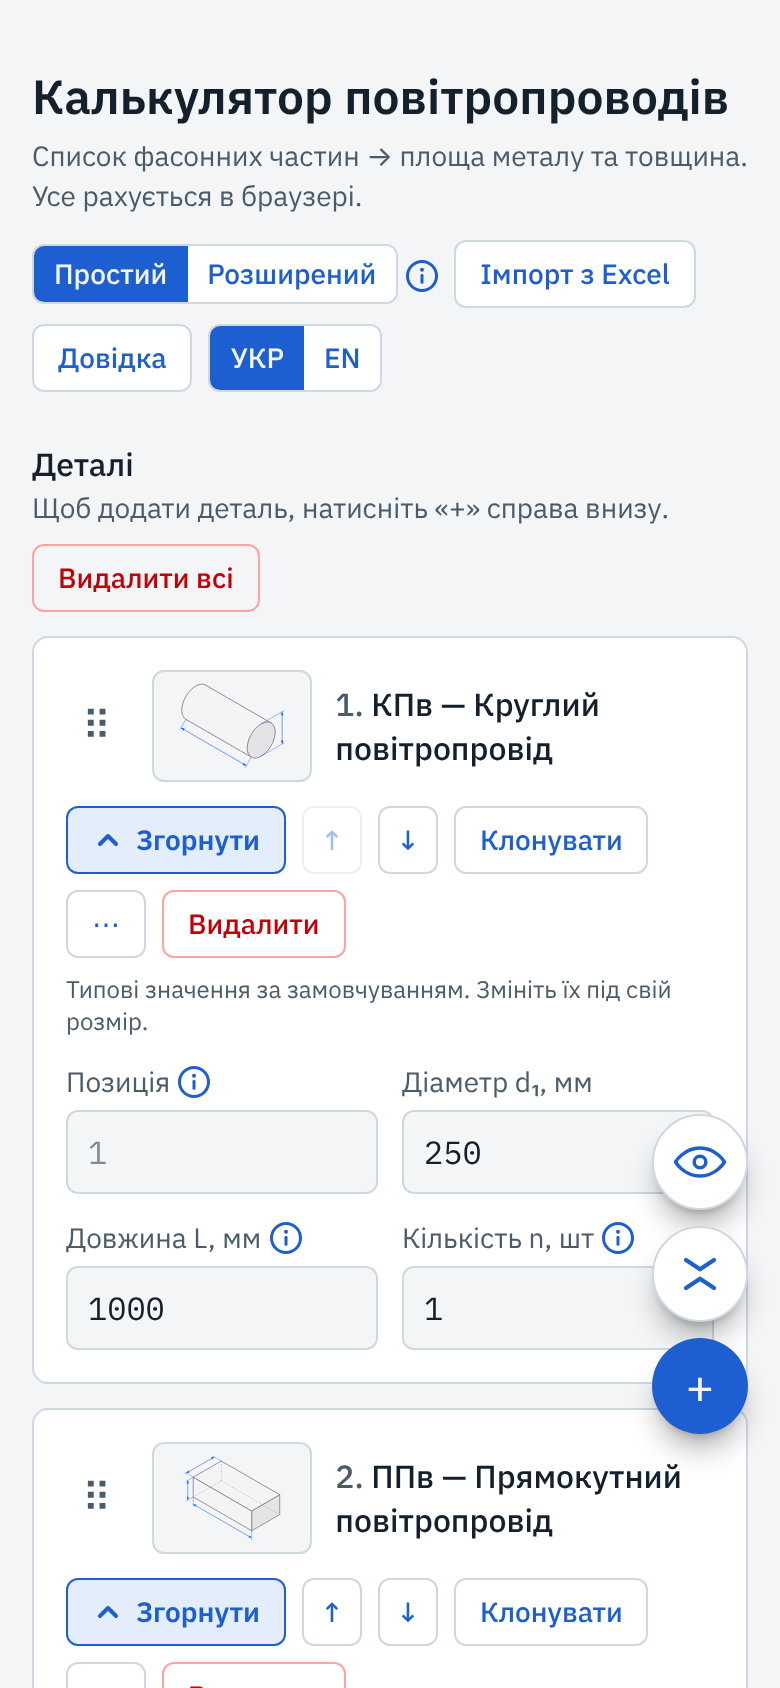
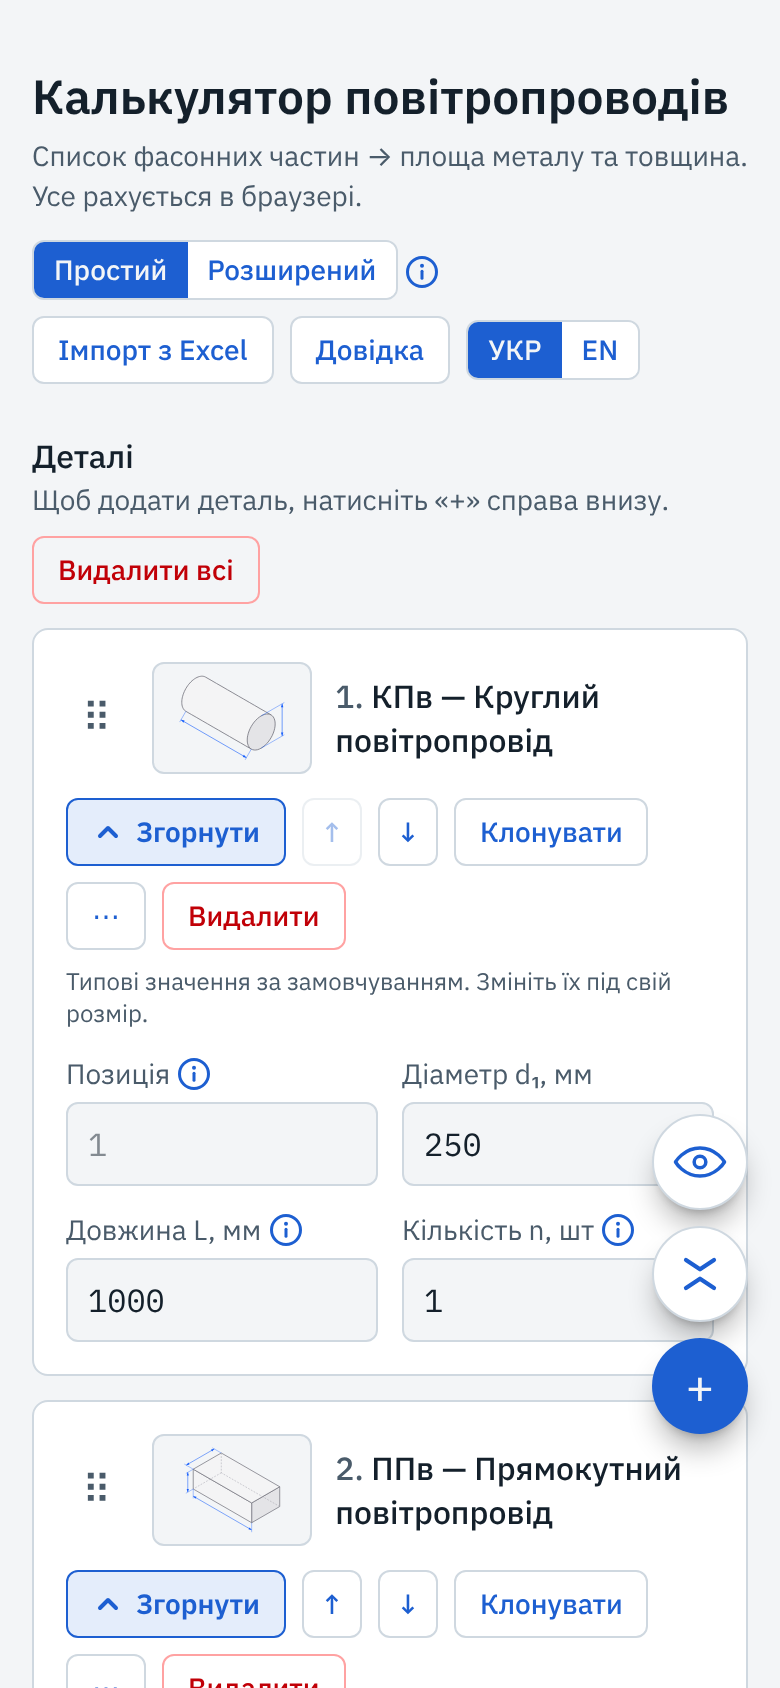
Header toolbar under the title, «Видалити всі» beside the heading (ADR 0083)
Claude-Session: https://claude.ai/code/session_0157kQd74hrHXx2Dq8GtVi5e

diff --git a/src/components/Calculator.tsx b/src/components/Calculator.tsx
@@ -42,18 +42,21 @@ function CalculatorPage() {
     <div className="mx-auto w-full max-w-[120rem] flex-1 gap-6 px-4 py-8 xl:px-8 lg:grid lg:grid-cols-[8.5rem_minmax(0,1fr)]">
       <KindRail count={countOf} onAdd={addRow} view={view} hasRows={rows.length > 0} twoColumns={twoColumns} onColumns={setTwoColumns} />
       <main className="min-w-0 space-y-6">
-        <header className="flex flex-col gap-3 sm:flex-row sm:items-start sm:justify-between sm:gap-4">
+        {/* title, then one toolbar left under it (ADR 0083): mode on its own row on a phone, the other buttons in a second row */}
+        <header className="space-y-3">
           <div>
             <h1 className="text-2xl font-semibold">{dict.appTitle}</h1>
             <p className={`mt-1 text-sm ${mutedClass}`}>{dict.appSubtitle}</p>
           </div>
-          <div className="flex shrink-0 flex-wrap gap-2 sm:justify-end">
+          <div className="flex flex-col items-start gap-2 sm:flex-row sm:flex-wrap sm:items-center sm:gap-3">
             <ModeSwitch />
-            <ImportButton onImport={importRows} />
-            <span className="contents lg:hidden">
-              <HelpButton />
-              <LangSwitch />
-            </span>
+            <div className="flex flex-wrap items-center gap-2">
+              <ImportButton onImport={importRows} />
+              <span className="contents lg:hidden">
+                <HelpButton />
+                <LangSwitch />
+              </span>
+            </div>
           </div>
         </header>
 

diff --git a/src/components/calculator/FittingList.tsx b/src/components/calculator/FittingList.tsx
@@ -232,7 +232,7 @@ export function FittingList({ rows: listRows, view, outcome, onKindChange, onVal
         setDrag(null);
       }}
     >
-      <div className="flex flex-wrap items-center justify-between gap-2">
+      <div className="flex flex-wrap items-center gap-x-6 gap-y-2">
         <div>
           <h2 id="items-title" className="font-medium">{dict.itemsTitle}</h2>
           <p className="text-sm text-muted">

diff --git a/CLAUDE.md b/CLAUDE.md
@@ -8,7 +8,7 @@ Stack: Next.js (App Router), TypeScript strict, Vitest, Zod 4. Core logic is pla
 Engineering decisions: one ADR per file in `docs/adr/`. `docs/decisions.md` is the short index: the ADR list, known deviations from the Excel, the `TODO(confirm)` register and deferred work. The engineer's answers and the Excel template bugs: `docs/engineer-answers.md`.
 
 ## Status
-Stage 0 (fittings geometry, pressure drop) and stage 1 core (thickness table, elbow waste factor, air properties, Zod validation, `assembleSection`) are done and merged. Sheet list by thickness (metal m2 per thickness, `sheetList`) is done. First UI is done (split into focused components + `useCalculator` hook): one client-side calculator page (page width capped at 1920 px, an optional two-column card layout from 1280 px, ADR 0047; Ukrainian by default, English via the УКР / EN switch (bottom of the side rail on desktop, header on the phone, ADR 0048), remembered in `localStorage`, see ADR 0039), no backend. Deployed on Vercel (owner's account, Hobby plan, auto-deploy from `main`, previews per PR); Vercel Web Analytics is wired in (`<Analytics />` in `src/app/layout.tsx`, package `@vercel/analytics`, the owner enables it in the Vercel dashboard). Elbow radius is now suggested from the size in the form (round centre-line R = 1.0 D, rect inner R = 0.5 W, `config.elbowRadius`, `TODO(confirm)`; the field follows the size until the user types over it). During the beta the page opens with one example row of every fitting kind (`form/sample-rows.ts`) and the full sketches are closed by default (only the thumbnail shows, ADR 0081). Each fitting card starts with a thumbnail of its isometric sketch; a click opens the full sketch inside the card and a second click closes it (ADR 0040; it replaced the "Показати схему" button); the sketch is an inline SVG (line style, labels beside the drawing, a legend names the letters, see ADR 0033; the older side view and cross-section stay in the code, unused by the card). Inputs in a row stay aligned when a label wraps (each field is a column packed to the bottom, `justify-end`, so the inputs stay level and the shorter labels sit right above their inputs). Fittings are added from an always-visible side panel (desktop: sticky rail of kind groups with a list beside it; phone: quick buttons and a bottom sheet with search, see ADR 0031); a card shows its kind as a title and changes it through a «⋯» menu. Input warnings (aspect ratio, size over 2000 mm, large elbow radius) are done. Tees and crosses (metal area, 8 kinds, see ADR 0021) are done. Standalone branch-in collars (врізки Квр, Пвр: `roundTap`, `rectTap`, metal area only, see ADR 0026) are done. The engineer's 2026-10-19 answers are in: ДБН thickness table by default (engineer's table selectable), user-set seam allowance for non-elbows, reducer friction by the mean diameter, order margin (default 20 %), sheet size and sheet count (settings block in the UI). The UI shows areas only (owner, 2026-10-19): pressure losses, centerline length, air parameters, airflow and zeta are hidden, the core and its tests are unchanged. The README is the portfolio page (English, with a Ukrainian copy `README.uk.md` and language links at the top; keep both in sync): what the tool does, live link, screenshots in `docs/images/` (taken from a production build at 1440 x 900 and a 390 px phone), supported fittings, how the numbers are verified, stack and commands; refresh the screenshots when the UI changes visibly (last retaken 2026-11-23, desktop and phone in the simple mode). The area formulas were cross-checked against ВСН 353-86, ДСТУ Б Д.2.4-15:2014 and online calculators (2026-10-27); the rect-to-round transition is now the exact layout (ADR 0035), the other kinds agree or differ only by documented choices (slant instead of the axial length, smooth instead of segmented round elbows). Insulation area is in as a beta (ADR 0037): one material per row from the Excel's six, outer surface = metal geometry with each size + 2t, elbows with the cutting coefficient, caps the end plate only; per-row column, a list per material and a total. Price is in (ADR 0038): the user types UAH per m² for each thickness in the metal list and each material in the insulation list (empty = no price, nothing preset); metal is priced on the area to order (margin included), insulation on its computed area; cost per line and totals (metal, insulation, all), unpriced lines are counted, not free. The engineer's 2026-11-16 answers, part one (ADR 0041): his thickness table keys rect sizes by the equivalent diameter 2AB/(A+B) (`ThicknessTable.rectKey`), and every fitting with an allowance takes a number of allowances 2 / 1 / 0 (`allowanceCount`, absent = 2, a select in the card). Part two (ADR 0042): reducers, tees and crosses show two areas, the actual area and the metal consumption (`calc/consumption.ts`: reducers at least `config.consumption.minReducerLengthMm` = 300 mm long, tees and crosses without the cut-out); the order, sheet list, sheet count and metal price use the consumption, insulation the actual geometry. The tap ring (ADR 0043): taps add a flat ring `config.tap.ringWidthMm` = 50 mm wide around the stub (round annulus, rect frame) to the actual metal area and the consumption (`calc/tap-ring.ts` `tapRingArea`, added in `metalArea`, ADR 0044); `sheetArea` and insulation stay the stub only. Straights split into shop pieces (ADR 0045): a per-card max piece length (round 3000, rect 1250 mm, `config.straightPiece`, `TODO(confirm)`; 0 = off), the results show «ланки: 7 × 3 м + 1 × 1,5 м», the area is unchanged (`form/pieces.ts` `splitLength`). In-app help (ADR 0046): an «i» button after the less obvious input labels and column headers opens a short explanation on tap (no hover), and a «Довідка» button in the header opens a six-step how-to dialog (the sixth on the import, ADR 0063); texts in `dict.help`. Manual row order and positions (ADR 0049): cards move by a «⠿» drag handle (mouse on desktop, finger on the phone; live preview, cards glide on a reorder only, ADR 0068) and ↑ / ↓ buttons (everywhere); the rows array is the order of the list and the results; a repeated kind forms a section only where its rows stand together (each section takes the full width, ADR 0071, framed in the accent colour at 35 %, ADR 0072; folded tiles read down the columns, ADR 0065, in rows of equal height, ADR 0066; folded single fittings sit in a dashed «Окремі деталі» frame, ADR 0070); each card has a free-text «Позиція» field (empty = list number, e.g. П1, В2), shown on the card and in the results (`form/order.ts`). Results rows show the sizes under the name and scroll to the card on click, which is then highlighted for 1.5 s (ADRs 0050, 0054); the results table shows the same sections as the list, with section sums; a click on a section title scrolls to the section and highlights it the same way (ADRs 0055, 0057). The results table header sticks to the top of the screen from `lg` (ADR 0075); between `sm` and `lg` the table box is capped at 80vh and the header sticks inside it (ADR 0078). A folded tile shows its four buttons in two rows (ADR 0077); in the two-column layout an open card's buttons stand in two rows, fold and move on top, clone, kind and remove below (ADR 0080). On a phone (below 640 px) the results, sheet list and insulation list render as blocks of «label: value» lines instead of tables (ADR 0058), and an open card sketch sits right under the thumbnail (ADR 0059). The card's «Згорнути» is the first card button and tinted (ADR 0060). A clone opens in its original's view, folded or open (ADR 0056). Section titles start with their positions, «1–2.» or «П1, П2.» (ADR 0051). A whole section moves by its own «⠿» handle and ↑ / ↓ (ADR 0052, `moveBlock`). Seam allowance and order margin are also editable in «Разом», thickness table and sheet size in «Відомість металу за товщиною» (same state, shared field components in `SettingsPanel.tsx`, ADR 0053). Import of a spec table (ADR 0061): «Імпорт з Excel» in the header reads .xlsx / .csv in the browser (no dependency, own ZIP + XML reader), guesses the column mapping (editable, remembered per header text), recognises kinds from codes and names (a hood «Зонт» is a cap, ADR 0079), shows every row (recognised / not recognised with a manual kind choice / service rows) and adds the rows in file order with positions «система-№» from the file; its inputs carry «i» help (`dict.import.info`, ADR 0063); a size in the name that differs from its column is flagged in the preview and as a warning on the card until the field is edited (`sizeConflicts`, `FormRow.sizeConflicts`, ADR 0073). A row the file gives no size for is added with «⚠ розмірів у файлі немає» on the card and the tile (`FormRow.noSizes`, ADR 0074). «Видалити всі» at the «Деталі» heading empties the list after an in-place confirmation (ADR 0062). Simple / advanced interface mode (ADR 0082): a «Простий / Розширений» switch in the header, remembered in `localStorage`, simple by default; the simple mode hides the settings block, allowances, insulation, max piece length and prices (elements with the class `adv-only`, hidden by `<html data-mode="simple">`), hidden values still count. Next, in the engineer's order: aerodynamics as a separate mode; XLSX export waits for the engineer's reference files.
+Stage 0 (fittings geometry, pressure drop) and stage 1 core (thickness table, elbow waste factor, air properties, Zod validation, `assembleSection`) are done and merged. Sheet list by thickness (metal m2 per thickness, `sheetList`) is done. First UI is done (split into focused components + `useCalculator` hook): one client-side calculator page (page width capped at 1920 px, an optional two-column card layout from 1280 px, ADR 0047; Ukrainian by default, English via the УКР / EN switch (bottom of the side rail on desktop, header on the phone, ADR 0048), remembered in `localStorage`, see ADR 0039), no backend. Deployed on Vercel (owner's account, Hobby plan, auto-deploy from `main`, previews per PR); Vercel Web Analytics is wired in (`<Analytics />` in `src/app/layout.tsx`, package `@vercel/analytics`, the owner enables it in the Vercel dashboard). Elbow radius is now suggested from the size in the form (round centre-line R = 1.0 D, rect inner R = 0.5 W, `config.elbowRadius`, `TODO(confirm)`; the field follows the size until the user types over it). During the beta the page opens with one example row of every fitting kind (`form/sample-rows.ts`) and the full sketches are closed by default (only the thumbnail shows, ADR 0081). Each fitting card starts with a thumbnail of its isometric sketch; a click opens the full sketch inside the card and a second click closes it (ADR 0040; it replaced the "Показати схему" button); the sketch is an inline SVG (line style, labels beside the drawing, a legend names the letters, see ADR 0033; the older side view and cross-section stay in the code, unused by the card). Inputs in a row stay aligned when a label wraps (each field is a column packed to the bottom, `justify-end`, so the inputs stay level and the shorter labels sit right above their inputs). Fittings are added from an always-visible side panel (desktop: sticky rail of kind groups with a list beside it; phone: quick buttons and a bottom sheet with search, see ADR 0031); a card shows its kind as a title and changes it through a «⋯» menu. Input warnings (aspect ratio, size over 2000 mm, large elbow radius) are done. Tees and crosses (metal area, 8 kinds, see ADR 0021) are done. Standalone branch-in collars (врізки Квр, Пвр: `roundTap`, `rectTap`, metal area only, see ADR 0026) are done. The engineer's 2026-10-19 answers are in: ДБН thickness table by default (engineer's table selectable), user-set seam allowance for non-elbows, reducer friction by the mean diameter, order margin (default 20 %), sheet size and sheet count (settings block in the UI). The UI shows areas only (owner, 2026-10-19): pressure losses, centerline length, air parameters, airflow and zeta are hidden, the core and its tests are unchanged. The README is the portfolio page (English, with a Ukrainian copy `README.uk.md` and language links at the top; keep both in sync): what the tool does, live link, screenshots in `docs/images/` (taken from a production build at 1440 x 900 and a 390 px phone), supported fittings, how the numbers are verified, stack and commands; refresh the screenshots when the UI changes visibly (last retaken 2026-11-23, desktop and phone in the simple mode). The area formulas were cross-checked against ВСН 353-86, ДСТУ Б Д.2.4-15:2014 and online calculators (2026-10-27); the rect-to-round transition is now the exact layout (ADR 0035), the other kinds agree or differ only by documented choices (slant instead of the axial length, smooth instead of segmented round elbows). Insulation area is in as a beta (ADR 0037): one material per row from the Excel's six, outer surface = metal geometry with each size + 2t, elbows with the cutting coefficient, caps the end plate only; per-row column, a list per material and a total. Price is in (ADR 0038): the user types UAH per m² for each thickness in the metal list and each material in the insulation list (empty = no price, nothing preset); metal is priced on the area to order (margin included), insulation on its computed area; cost per line and totals (metal, insulation, all), unpriced lines are counted, not free. The engineer's 2026-11-16 answers, part one (ADR 0041): his thickness table keys rect sizes by the equivalent diameter 2AB/(A+B) (`ThicknessTable.rectKey`), and every fitting with an allowance takes a number of allowances 2 / 1 / 0 (`allowanceCount`, absent = 2, a select in the card). Part two (ADR 0042): reducers, tees and crosses show two areas, the actual area and the metal consumption (`calc/consumption.ts`: reducers at least `config.consumption.minReducerLengthMm` = 300 mm long, tees and crosses without the cut-out); the order, sheet list, sheet count and metal price use the consumption, insulation the actual geometry. The tap ring (ADR 0043): taps add a flat ring `config.tap.ringWidthMm` = 50 mm wide around the stub (round annulus, rect frame) to the actual metal area and the consumption (`calc/tap-ring.ts` `tapRingArea`, added in `metalArea`, ADR 0044); `sheetArea` and insulation stay the stub only. Straights split into shop pieces (ADR 0045): a per-card max piece length (round 3000, rect 1250 mm, `config.straightPiece`, `TODO(confirm)`; 0 = off), the results show «ланки: 7 × 3 м + 1 × 1,5 м», the area is unchanged (`form/pieces.ts` `splitLength`). In-app help (ADR 0046): an «i» button after the less obvious input labels and column headers opens a short explanation on tap (no hover), and a «Довідка» button in the header opens a six-step how-to dialog (the sixth on the import, ADR 0063); texts in `dict.help`. Manual row order and positions (ADR 0049): cards move by a «⠿» drag handle (mouse on desktop, finger on the phone; live preview, cards glide on a reorder only, ADR 0068) and ↑ / ↓ buttons (everywhere); the rows array is the order of the list and the results; a repeated kind forms a section only where its rows stand together (each section takes the full width, ADR 0071, framed in the accent colour at 35 %, ADR 0072; folded tiles read down the columns, ADR 0065, in rows of equal height, ADR 0066; folded single fittings sit in a dashed «Окремі деталі» frame, ADR 0070); each card has a free-text «Позиція» field (empty = list number, e.g. П1, В2), shown on the card and in the results (`form/order.ts`). Results rows show the sizes under the name and scroll to the card on click, which is then highlighted for 1.5 s (ADRs 0050, 0054); the results table shows the same sections as the list, with section sums; a click on a section title scrolls to the section and highlights it the same way (ADRs 0055, 0057). The results table header sticks to the top of the screen from `lg` (ADR 0075); between `sm` and `lg` the table box is capped at 80vh and the header sticks inside it (ADR 0078). A folded tile shows its four buttons in two rows (ADR 0077); in the two-column layout an open card's buttons stand in two rows, fold and move on top, clone, kind and remove below (ADR 0080). On a phone (below 640 px) the results, sheet list and insulation list render as blocks of «label: value» lines instead of tables (ADR 0058), and an open card sketch sits right under the thumbnail (ADR 0059). The card's «Згорнути» is the first card button and tinted (ADR 0060). A clone opens in its original's view, folded or open (ADR 0056). Section titles start with their positions, «1–2.» or «П1, П2.» (ADR 0051). A whole section moves by its own «⠿» handle and ↑ / ↓ (ADR 0052, `moveBlock`). Seam allowance and order margin are also editable in «Разом», thickness table and sheet size in «Відомість металу за товщиною» (same state, shared field components in `SettingsPanel.tsx`, ADR 0053). Import of a spec table (ADR 0061): «Імпорт з Excel» in the header reads .xlsx / .csv in the browser (no dependency, own ZIP + XML reader), guesses the column mapping (editable, remembered per header text), recognises kinds from codes and names (a hood «Зонт» is a cap, ADR 0079), shows every row (recognised / not recognised with a manual kind choice / service rows) and adds the rows in file order with positions «система-№» from the file; its inputs carry «i» help (`dict.import.info`, ADR 0063); a size in the name that differs from its column is flagged in the preview and as a warning on the card until the field is edited (`sizeConflicts`, `FormRow.sizeConflicts`, ADR 0073). A row the file gives no size for is added with «⚠ розмірів у файлі немає» on the card and the tile (`FormRow.noSizes`, ADR 0074). «Видалити всі» at the «Деталі» heading empties the list after an in-place confirmation (ADR 0062). Simple / advanced interface mode (ADR 0082): a «Простий / Розширений» switch in the header, remembered in `localStorage`, simple by default; the simple mode hides the settings block, allowances, insulation, max piece length and prices (elements with the class `adv-only`, hidden by `<html data-mode="simple">`), hidden values still count. The header toolbar sits left under the title, «Видалити всі» right after the «Деталі» heading (ADR 0083). Next, in the engineer's order: aerodynamics as a separate mode; XLSX export waits for the engineer's reference files.
 
 ## Code map (`src/lib/`)
 - `calc/units.ts` - `mmToM`, `mToMm` (import, ADR 0061), `m3hToM3s`, `degToRad`; the only place that converts.

diff --git a/docs/adr/0083-header-toolbar-under-the-title.md b/docs/adr/0083-header-toolbar-under-the-title.md
@@ -1,0 +1,14 @@
+# 0083. Header toolbar under the title
+
+Status: Accepted
+Date: 2026-11-23
+Source: owner, 2026-11-23 (phone buttons looked scattered; on a 1440p screen the mode, import and «Видалити всі» buttons sat too far right)
+
+## Context
+The header put its buttons at the right edge of a page up to 1920 px wide and wrapped them unevenly on a phone; «Видалити всі» stood at the far right of the «Деталі» heading.
+
+## Decision
+The header toolbar sits left under the title on every width: the mode switch first, then import (and help and language on narrow screens). On a phone the mode switch takes its own row and the other buttons a second row. «Видалити всі» stands right after the «Деталі» heading text, not at the far edge.
+
+## Consequences
+The buttons stay near the content they belong to on wide screens.

diff --git a/docs/decisions.md b/docs/decisions.md
@@ -97,6 +97,7 @@ Companion to `CLAUDE.md`: why the core looks the way it does, and what is still 
 | [0080](adr/0080-card-buttons-two-rows-in-two-columns.md) | Open card buttons in two rows in the two-column layout | 2026-11-20 | Accepted |
 | [0081](adr/0081-sketches-closed-by-default.md) | Full sketches closed by default (thumbnail only) | 2026-11-20 | Accepted |
 | [0082](adr/0082-simple-and-advanced-mode.md) | Simple and advanced interface modes (simple by default, hidden values still count) | 2026-11-23 | Accepted |
+| [0083](adr/0083-header-toolbar-under-the-title.md) | Header toolbar left under the title, «Видалити всі» beside the heading | 2026-11-23 | Accepted |
 
 ## Known deviations from the Excel
 Deliberate; the Excel is a reference, not the truth ([0001](adr/0001-excel-is-a-reference-not-the-truth.md)). The first two are rect elbows.
